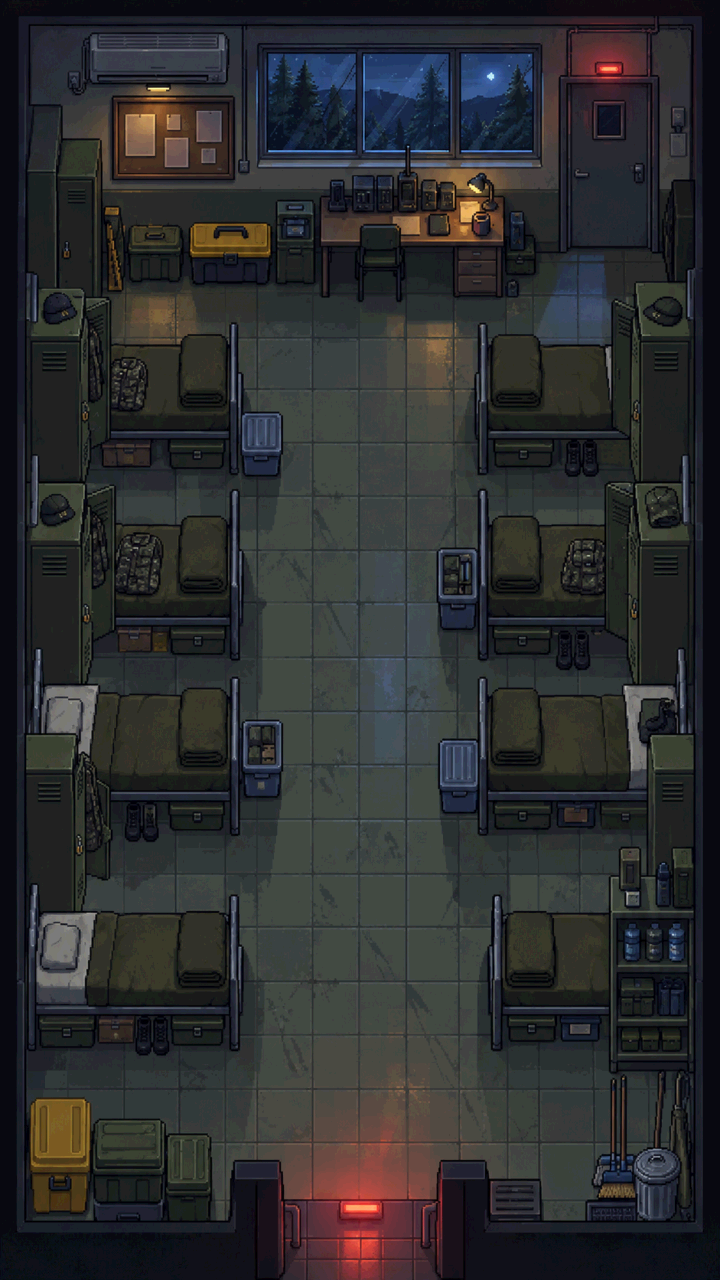
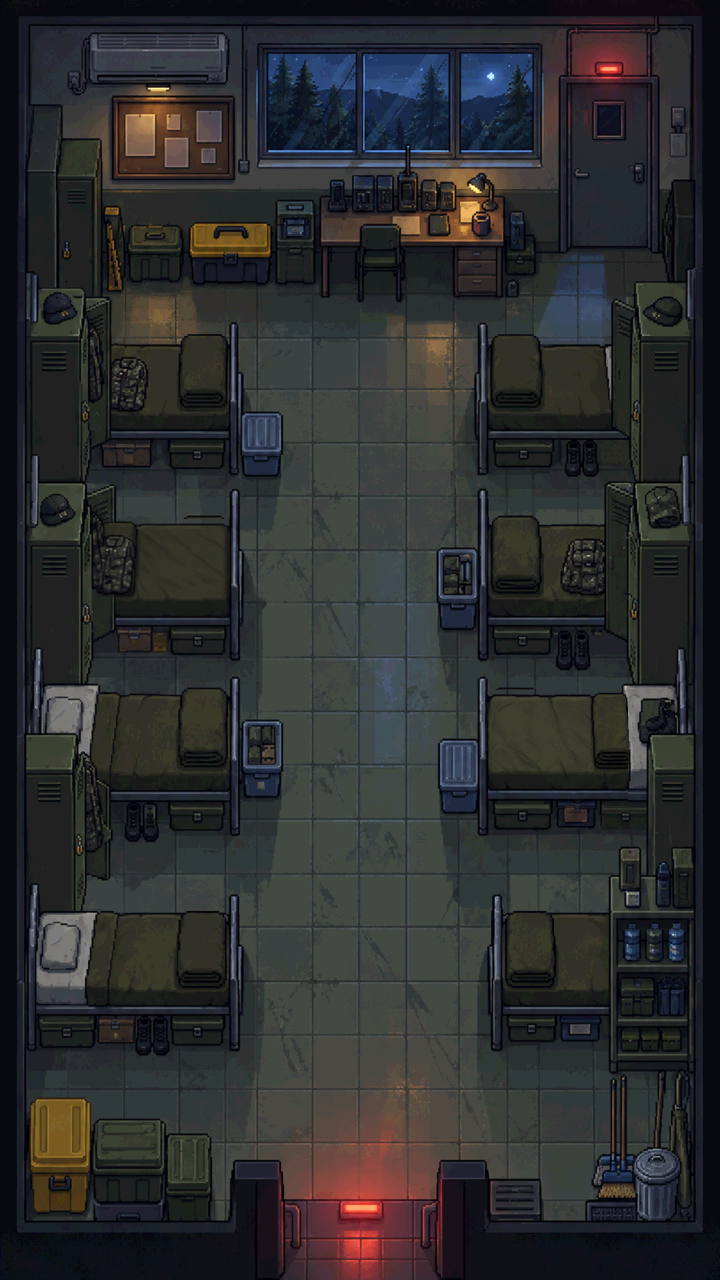
T-118: 침상 사이 이동과 아빠다리 동료 근접 대화 구현 완료

Changed region(s): [[0.1222, 0.4062, 0.3361, 0.4688], [0.6722, 0.5312, 0.7639, 0.625], [0.825, 0.5312, 0.8861, 0.625]]

diff --git a/src/ui/walk.ts b/src/ui/walk.ts
@@ -81,13 +81,13 @@ const L = {
     { id: 'door', x: 0.5, y: 0.94, r: 90, title: '출입구', desc: '위병소 방면 · 전투 투입', kind: 'deploy' },
     {
       id: 'lee',
-      x: 0.24,
-      y: 0.515,
+      x: 206 / W,
+      y: 590 / MAP_H,
       r: 90,
       title: '이상병',
       desc: '',
       kind: 'npc',
-      art: 'walk_lee_idle',
+      art: 'walk_lee_sit',
       lines: [
         '저격은 관통이다. 한 줄로 세워 놓고 쏴라.',
         '사거리 안이면 어느 방향이든 쏜다. 대각선도 된다.',
@@ -96,13 +96,13 @@ const L = {
     },
     {
       id: 'park',
-      x: 0.76,
-      y: 0.660,
+      x: 514 / W,
+      y: 756 / MAP_H,
       r: 90,
       title: '박취사',
       desc: '',
       kind: 'npc',
-      art: 'walk_park_idle',
+      art: 'walk_park_sit',
       lines: [
         '밥 먹고 해야지. 취사병이 옆에 있으면 다들 버틴다.',
         '제설병 뒤에 취사병을 세워라. 맞는 사람이 있어야 치료도 있지.',
@@ -225,7 +225,8 @@ export class WalkScene extends Scene {
     this.pos = moveStep(this.pos, dir, L.speed, Math.min(delta, 50), this.colliders, this.bounds, L.radius)
     const moving = Math.hypot(this.pos.x - before.x, this.pos.y - before.y) > 0.1
     this.player.setPosition(this.pos.x, this.pos.y).setDepth(this.pos.y)
-    const partner = this.talking ? this.zones.find((z) => z.id === this.talking) : null
+    const nearNpc = open ? null : nearestZone(this.pos, this.zones.filter(z => z.spot.kind === 'npc'))
+    const partner = this.talking ? this.zones.find(z => z.id === this.talking) : !moving ? nearNpc : null
     this.rookie.target = partner
       ? facingFor({ x: partner.x - this.pos.x, y: partner.y - this.pos.y }, this.rookie.facing)
       : facingFor(dir, this.rookie.target)
@@ -238,7 +239,7 @@ export class WalkScene extends Scene {
     }
     for (const [id, npc] of this.npcs) {
       const z = this.zones.find((zone) => zone.id === id)!
-      npc.target = this.talking === id
+      npc.target = !open && (this.talking === id || nearNpc?.id === id)
         ? facingFor({ x: this.pos.x - z.x, y: this.pos.y - z.y }, npc.facing)
         : npc.home
       this.turnActor(npc, time)
@@ -296,7 +297,8 @@ export class WalkScene extends Scene {
 
   private actor(artKey: string, fallback: string, label: string, home: number): Actor {
     const box = this.add.container(0, 0)
-    box.add(this.add.ellipse(0, 0, 52, 14, 0x000000, 0.30))
+    const seated = artKey.endsWith('_sit') && hasArt(artKey)
+    box.add(this.add.ellipse(0, seated ? -3 : 0, seated ? 40 : 52, seated ? 10 : 14, 0x000000, seated ? 0.22 : 0.30))
     const key = hasArt(artKey) ? artKey : fallback
     let sprite: GameObjects.Sprite | null = null
     if (hasArt(key)) {
@@ -319,7 +321,7 @@ export class WalkScene extends Scene {
   private makeNpc(z: Hot): void {
     const a = this.actor(z.spot.art ?? '', z.id === 'lee' ? 'ally_sniper_idle' : 'ally_cook_idle', z.spot.title.slice(0, 1), z.id === 'lee' ? 6 : 2)
     a.box.setPosition(z.x, z.y).setDepth(z.y).setName(z.id)
-    a.box.add(this.add.text(0, -103, z.spot.title, { fontFamily: FONT, fontSize: '20px', color: '#d9d2be', stroke: '#000000', strokeThickness: 4 }).setOrigin(0.5))
+    a.box.add(this.add.text(0, -78, z.spot.title, { fontFamily: FONT, fontSize: '20px', color: '#d9d2be', stroke: '#000000', strokeThickness: 4 }).setOrigin(0.5))
     this.npcs.set(z.id, a)
   }
 

diff --git a/src/assets.ts b/src/assets.ts
@@ -78,6 +78,8 @@ const LOBBY_ART_CONTRACTS: AssetContract[] = [
   { key: 'walk_rook_idle', w: 128, h: 128, frames: 8, color: '#4b5320', label: 'walk_rook_idle' },
   { key: 'walk_lee_idle', w: 128, h: 128, frames: 8, color: '#4b5320', label: 'walk_lee_idle' },
   { key: 'walk_park_idle', w: 128, h: 128, frames: 8, color: '#4b5320', label: 'walk_park_idle' },
+  { key: 'walk_lee_sit', w: 128, h: 128, frames: 8, color: '#4b5320', label: 'walk_lee_sit' },
+  { key: 'walk_park_sit', w: 128, h: 128, frames: 8, color: '#4b5320', label: 'walk_park_sit' },
 ]
 
 // 처리 도구의 getMaxFrames와 같은 상한. 단일 정적 그림은 기존 최소치를 유지한다.

diff --git a/tests/assets.test.ts b/tests/assets.test.ts
@@ -69,8 +69,8 @@ describe('에셋 계약 표 (docs/ART.md §4)', () => {
     }
   })
 
-  it('총 키 개수가 112개이고 모든 규격(w, h, frames)이 유효하다', () => {
-    expect(ASSET_CONTRACTS.length).toBe(112)
+  it('총 키 개수가 114개이고 모든 규격(w, h, frames)이 유효하다', () => {
+    expect(ASSET_CONTRACTS.length).toBe(114)
     for (const item of ASSET_CONTRACTS) {
       expect(item.w).toBeGreaterThan(0)
       expect(item.h).toBeGreaterThan(0)

diff --git a/docs/tickets/T-118-barracks-aisles.md b/docs/tickets/T-118-barracks-aisles.md
@@ -1,6 +1,6 @@
 # T-118 생활관 침상 사이 통로와 동료 자리 개선
 
-상태: 진행 중
+상태: 완료
 담당: Codex
 
 ## 목표
@@ -57,8 +57,8 @@
 - [x] 양쪽 침대 사이 통로로 진입·복귀 가능
 - [x] 통로 안 관물대 접근/도감 열기
 - [x] 두 동료가 중앙 길을 막지 않음
-- [ ] 앉은 자세 그림 제작 방식·시안 승인 후 연결
-- [ ] verify 결과·실제 입력 스크린샷·인계·PR
+- [x] 앉은 자세 그림 제작 방식·시안 승인 후 연결
+- [x] verify 결과·실제 입력 스크린샷·인계·PR
 
 디버그 URL: `?scene=walk&zones=1&safe=1`, `?scene=walk&safe=1`, `?scene=walk&art=0`.
 
@@ -73,7 +73,7 @@
 ## 질문
 
 - [x] 사용자: 내장 이미지 생성 도구 진행 승인. 별도 이미지 도구이며 API 키 불필요, Sol 한도 합산은 확인 불가라고 안내 후 승인 받음.
-- [ ] 사용자: 새 앉은 자세 시안 Figma 승인 후 게임 반영(기존 선승인 지시 유지).
+- [x] 사용자: 2026-10-29 “응 해당 방향으로 이어가자”로 흰 원 위치·대칭·소품 정리·아빠다리 시안 승인, 실제 게임 연결 진행.
 
 ## 진행 기록
 
@@ -92,29 +92,24 @@
 
 - [x] 사용자 흰 원 표시 위치로 두 캐릭터와 접촉 그림자를 함께 이동. 중앙 복도 x360을 기준으로 좌x206·우x514, 각154px로 좌우 대칭 확인. 높이는 각 침상 표시를 따라 footY590·756으로 조정. Figma68:16/17 및73:2/3 수정, T-118-marked-position.png 시각 검토. 게임 미반영·시안 승인 대기 유지.
 
+- [x] 2026-10-29 사용자 최종 시안 승인 후 게임 연결 완료. 아빠다리 시트/침상 배경/접근 회전·자동 기본대사·복귀 및 최종 좌우 대칭 위치 반영. 최종 verify364테스트·97에셋·빌드 통과, 실제6개 틈/도감/두NPC/조이스틱/전투왕복/그림누락 검증과 사진6장 저장. 가공 재실행 SHA256 동일 확인.
+
 ## 결과 보고
 
-- 최신 위치(흰 원 지시): 기준720×1280의 좌측 이상병 x206/footY590, 우측 박취사 x514/footY756. 복도축360에서154px씩 떨어지며 좌우 합720으로 대칭. 예정 게임 비율은 이상병(.286111,.4609375), 박취사(.713889,.590625). 이전 침대 중앙 좌표는 이 지시로 대체한다. 그림자도 같은 이동량 적용, 모포/군장 정리 배경 유지. 최신 검토 사진 docs/shots/T-118-marked-position.png, Figma보드 동일68-3.
-- 사용자 흰 표시 레이어72:2/72:3은 삭제하지 않고 visible=false로 보존해 인물이 가려지지 않도록 했다. 표시를 숨긴 후 최종 사진으로 교체·검토 완료.
-
-- 최신 침상 수정: 캐릭터와 모포/군장의 겹침을 사용자가 지적해 두 매트리스를 비운 합성 시안으로 변경. 내장 imagegen으로 배경 국소 편집 및 오른쪽 셋째 침상 단독 편집, raw는 barracks-bedding-v1.png/right-third-bedding-v2.png, 프롬프트 prompts-bedding.json에 저장. 전체 생성본이 잘못 바꾼 오른쪽 둘째 침상은 채택하지 않았다.
-- 배경 미리보기: 원래 배경 위에 왼쪽 둘째 매트리스(93,519,143,105)·오른쪽 셋째(485,690,143,117)만 교체. prepare-barracks-seats.mjs가 생성물을 축소/배치하고 두 영역 밖 변경0픽셀을 직접 검사한다. art/inbox/a118/barracks-bedding-preview.png(720×1280,441111바이트)로 저장. 게임 public/assets에는 아직 미반영.
-- Figma68:12 배경을 새 미리보기로 교체, 두 캐릭터 아래 접촉 그림자73:2/73:3 추가, 모포/군장 정리 설명으로 수정. 몸은 그대로 아빠다리·복도 방향이고 매트리스 위에 놓인다. 최종 배치 사진은 docs/shots/T-118-bedding-approval.png. 사용자 시안 승인 후 실제 게임 연결한다.
-
-- 최신 수정 시안: 사용자가 다리를 내린 기존3자세를 반려하고 사진의 아빠다리·침대 중앙·복도 방향·근접 시 몸 돌려 대화를 요청했다. 내장 imagegen으로8방향 재제작, 이상병 NW 방향 중복은1회 수정. 최신 원본은 art/inbox/a118/lee-crossleg-v3.png와 park-crossleg-v2.png이며 이전 버전은 보존한다. 사진은 자세만 참조하고 실사 인물의 외형/복장은 사용하지 않았다.
-- 최신 미리보기: prepare-barracks-seats.mjs는 위 원본을4열2행으로 분리·투명 번짐 정리·128px/발116/높이74로 정렬해 ignored inbox에만 출력한다. 각8프레임과 기본 대기(이상병E6,박취사W2) 직접 검토. Figma68:7/9 시트 및68:16/17 배치 이미지를 교체, 침상 중앙 좌표 계획은 이상병(.235,.456)·박취사(.765,.596). 앉은 면이 매트리스 중앙에 놓이도록 배치만 보정함. 실제 walk.ts의 NPC 자리는 승인 후 수정한다.
-- 최신 프롬프트: art/inbox/a118/prompts-crossleg.json. 도구는 내장 image_gen, 실제 API 키/CLI 미사용. 새 게임 에셋·계약·장부 미변경. 아래3자세/가장자리 내용은 이전 시안 이력이며 최신 채택안이 아니다.
-
-- 통로 수정 검증: npm run verify 23파일364테스트·95에셋·타입/빌드 통과(기존 번들 경고). 실제 키보드로 양쪽3곳 통로 횡단·관물대 도감 열기 확인, 이동 사진4장. 앉은 그림은 아직 게임에 반영하지 않아 실제 대화 연결은 미검증.
-- 이미지: 사용자 방식 승인 후 내장 image_gen으로 2원본 생성. art/inbox/a118/lee-sit.png·park-sit.png 및 prompts.md 즉시 저장·gitignore. 참조는 walk_lee_idle/walk_park_idle, 무릎을 굽혀 침상 가장자리에 앉고 몸은 고정한 채 고개 좌/정면/우3자세. 박취사는 세 자세 모두 국자를 같은 손에 듦. 별도 API 키/CLI는 쓰지 않음.
-- 미리보기: node scripts/prepare-barracks-seats.mjs 성공, ignored inbox 안에128캔버스/발끝116/높이74 미리보기만 생성. public/assets·계약·장부 미변경.
-- Figma: https://www.figma.com/design/6RrU20Hv8way6vlYjcTJU3/?node-id=68-3 . 페이지68:2·보드68:3, session c81c50c1-e337-4b1c-9ade-069b228c5798. 새 원본 시트68:7/9, 배치용 정면68:16/17 업로드 완료. 편집 가능 한글7개 Noto Sans KR·이미지5개, 전체 승인 보드 시각검토. 사진 docs/shots/T-118-approval-board.png.
-- 현재 상태: 통로·동료 자리 수정 완료, 앉은 그림은 Figma 시안 승인 대기. 승인 후 계약/가공본/장부와 앉은 상태에서의 고개 방향을 연결하고 최종 검증·PR.
-- 확인하지 못한 점: 실기기.
+- 반영 내용: 좌우 침상줄 전체 충돌을 개별 침대8개/관물대/소품으로 분리, 발 반경12로 침대 사이 진입 허용. 관물대 접근6곳. 두 동료의 별도 길막 제거, 최종 흰 표시 위치(x206/514, footY590/756)로 좌우 대칭 배치.
+- 그림/동작: 승인한 아빠다리8방향 시트2장과 모포/군장을 정리한 두 매트리스 배경, 접촉 그림자 연결. 이상병은 기본E6·박취사는W2로 복도를 본다. 다가오면 NPC가 순차 몸 회전하고 플레이어가 멈추면 서로 마주 본다. 기본 대사 자동 표시, 대화 버튼으로 다음 대사, 멀어지면 복도 방향 복귀. 새 의존성/전투 규칙/공유 함수 계약 변경 없음.
+- 파일: walk.ts, assets.ts, tests/assets.test.ts, prepare-barracks-seats.mjs, 가공본2시트+bg_barracks, index/LEDGER, 이 티켓/HANDOFF/검토 사진. 계약114개·실제 그림97개. 원본/반려본/프롬프트는 art/inbox/a118 미추적 보존.
+- 처리 검사: `node scripts/prepare-barracks-seats.mjs --publish` 성공. 모든 프레임128캔버스/발끝116/앉은높이74, 배경720×1280, 3파일 모두512KB 이하(441111/60496/59842바이트). 두 매트리스 밖 변경0픽셀. 재실행 결과3파일 SHA256 동일.
+- 최종 검증: `npm run verify` 23파일364테스트·97에셋·타입/빌드 통과. 기존500KB 번들 경고 유지. `git diff --check` 통과.
+- 실제 입력:390×844 Safe Area에서 양쪽3개 틈 횡단(x118↔590/y640·820·1024), 안쪽 도감 열기. 이상병 근접 시 SE7/신병NW3·박취사NW3/신병SE7 마주보기, 클릭 전 기본대사와 클릭 후 다음대사, 떠나면 각각E6/W2 복귀 확인. 조이스틱 위 이동 약72px/보행 재생/손 떼면 정지. 생활관→전투→일시정지→포기→생활관 왕복 후 앉은 시트 재표시, 캔버스1개·해당 검사 pageerror0. 320×568 art0 대체 이동/동료2명 표시도 pageerror0.
+- 최종 실제 화면: docs/shots/T-118-game-seated.png, T-118-game-lee-talk.png, T-118-game-park-talk.png, T-118-game-locker.png, T-118-game-return.png, T-118-game-fallback.png. 앞선 수정 이력의 Figma/통로 사진은 T-118*.png로 함께 보존.
+- 사용자 확인: npm run dev 후 ?scene=walk&safe=1. 방향키/WASD 또는 빈바닥 드래그로 침상 사이 진입, 두 동료 가까이 가서 멈추기/대화 버튼. ?zones=1은 충돌/구역 표시, ?art=0은 그림 누락 대체 확인.
+- 한계: 안드로이드 실기기/노치 실측, 사용자의 회전 속도 체감은 미확인. 8자세의 순차 전환이며 프레임 사이를 새로 그리는 보간은 하지 않는다.
+- 다음: 사용자 PR 병합·일반 플레이 체감 확인. 출시 준비는 기존 보류 유지.
 
 ## 인계 메모
 
-- 생성 도구 선택과 시안 승인 질문은 별도 단계다. 도구 선택 승인 전 생성하지 않고, 시안 승인 전 게임에 새 그림을 반영하지 않는다. 이동·가구 수정은 사용자 요청으로 이미 승인됐다.
-- 생성 방식은 내장 도구로 승인받아 제작 완료했다. 현재 남은 질문은 Figma 시안 승인뿐이다. raw2장·미리보기4장·프롬프트는 art/inbox/a118에 보존, 공개 커밋 금지. 초기 검증은 서 있는 기존 그림을 옆으로 옮긴 상태이며 앉은 그림 연결 완료로 보고하지 않는다.
-- 이어하기 우선: 현재 유효한 시안은 아빠다리8방향이다. 기존 lee-sit.png/park-sit.png(다리 내림3자세)는 반려됐으므로 연결하지 않는다. 최신 Figma보드 URL은 동일68-3, 검토 사진은 docs/shots/T-118-crossleg-approval.png. 게임 연결/근접 자동 몸 회전은 아직 구현하지 않았다. 새 사용자 승인 후 이어간다.
-- 최신 배경도 함께 읽는다: 소품과 인물 겹침을 해결한 barracks-bedding-preview.png + 두 아빠다리 시트가 한 세트다. Figma68:12 배치가 최신이며, 기존 공개 bg_barracks는 아직 교체하지 않았다. 그림 승인 질문은 이 합성 시안을 기준으로 한다.
+- 최종 시안은 아빠다리8방향 + 두 매트리스 소품정리 + 흰 표시 좌우 대칭 위치다. 기존 다리내림3자세는 반려본으로 보존하며 게임에서 사용하지 않는다.
+- 승인 원본 lee-crossleg-v3.png/park-crossleg-v2.png, 배경 원본 barracks-bedding-v1.png/right-third-bedding-v2.png, 프롬프트3종은 art/inbox/a118에 보존. 새 원본 생성 없이 처리 스크립트 --publish로 가공/장부 재생성 가능. 원본 커밋 금지.
+- Figma68:3/68:12는 승인 증거, session c81c50c1-e337-4b1c-9ade-069b228c5798. 사용자 흰 원72:2/72:3은 삭제하지 않고 숨김 보존.
+- 실제 연결·검증 완료. 다음은 사용자 PR 병합이며 추가 변경은 새 티켓/브랜치로 시작한다.

diff --git a/docs/HANDOFF.md b/docs/HANDOFF.md
@@ -1,7 +1,7 @@
 # 인계 문서 (Claude Code → Codex 등 다른 에이전트)
 
 > 이 문서는 **작업자가 바뀌어도 이어갈 수 있게** 지금 상태·다음 할 일·함정을 적는다. 작업 단계를 끝낼 때마다 갱신한다.
-> 마지막 갱신: 2026-10-28(Codex, T-118 침상 사이 통로 수정·앉은 그림 승인 대기). 갱신 로그는 맨 아래.
+> 마지막 갱신: 2026-10-29(Codex, T-118 게임 연결·검증 완료). 갱신 로그는 맨 아래.
 > **Codex에게 시키는 프롬프트는 `docs/CODEX-START.md`에 있다.**
 
 ## 0. 먼저 읽을 것 (순서대로)
@@ -42,7 +42,7 @@
 | 4 | A-103 생활관 배경 → 걷는 화면 좌표 맞춤 | A-106 승인 후 T-117에서 배경 처리·가구/동료 충돌·구역 접근점과 표지 연결 완료 |
 | 4' | **A-106 브리핑·생활관·생활 모션 시안 승인** | `docs/tickets/A-106-visual-review.md`. [Figma 9원본 시안](https://www.figma.com/design/6RrU20Hv8way6vlYjcTJU3/?node-id=54-3) 사용자 승인 완료. T-117로 게임 연결·승인 문서/사진 통합 보존 |
 | 4'' | **T-117 승인 시안 게임 반영** | `docs/tickets/T-117-approved-visuals.md`. 브리핑4컷·생활관·4방향 보행/8방향 회전/동료 대화 연결。PR #46 실제 병합 확인(2026-10-28T13:25:01Z) |
-| 4''' | **T-118 침상 사이 통로·동료 앉은 자리** | `docs/tickets/T-118-barracks-aisles.md`. 통로 개방/도감 열기 확인. 다리 내림 시안 반려 후 내장 imagegen으로 아빠다리8방향 재제작, 침대 중앙·복도 방향 배치로 Figma68:3 수정 완료. 시안 승인 후 실제 좌표/에셋/근접 몸 회전 연결 대기. 브랜치 kidariseok/t118-barracks-aisles |
+| 4''' | **T-118 침상 사이 통로·동료 앉은 자리** | `docs/tickets/T-118-barracks-aisles.md`. 최종 시안 승인 후 아빠다리8방향·소품정리 배경·흰 표시 대칭 위치·근접 회전/대화/복귀 게임 연결 완료. 통로6곳·도감·조이스틱·전투왕복·art0 확인, verify364테스트·97에셋·빌드 통과. 브랜치 kidariseok/t118-barracks-aisles, PR 사용자 병합 대기 |
 | 5 | **T-114 전투 소리 연결** | `docs/tickets/T-114-battle-audio.md` 구현·검증 완료(358테스트·83에셋·빌드), [PR #42](https://github.com/kidariseok/shoottrial/pull/42) 실제 병합 확인(2026-10-26T14:55:00Z). 브랜치 `kidariseok/t114-battle-audio`. 일일 첫 접속 보너스는 별도 대기 |
 | 5' | **T-115 통합 점검·플레이테스트 준비** | `docs/tickets/T-115-playtest-prep.md` 통합 점검·안내 완료, `kidariseok/t115-playtest-prep` 기준6488f08c01e6. verify358테스트/83에셋/빌드, 자동10웨이브 흐름 확인. 사람 평가는 docs/PLAYTEST.md 기록표로 진행; PR #43 실제 병합 확인(2026-10-27T11:57:46Z) |
 | 6 | **T-108 출시 준비**(AAB 서명, 개인정보처리방침, 스토어 등록물, PX 광고 해금 연결) | **사용자가 구글 콘솔을 뒤로 미룸.** 사용자가 다시 꺼낼 때 시작(참고 `docs/research/play-launch.md`) |
@@ -95,6 +95,9 @@
 - **T-114 완료 계약**: data.BATTLE_AUDIO에 기존 음원 매핑, 전투 사건당1회 호출. 소생은 완료·박격포는 착탄 때, 열 전체 지원은 시각 이펙트 수와 무관하게 boom1. 가스/독/화상 틱은 무음. 일반 게임 일시정지/특기 선택은 BGM 유지, 앱 hidden/ad는 즉시 정지하고 둘 다 해제돼야 현재 음악만 재개. 결과/포기는 기존 페이드 후 BGM정지, 생활관 음악을 늦은 shutdown이 끄지 않도록 처리했다.
 
 ## 9. 갱신 로그
+
+- 2026-10-29 (T-118 완료): 사용자 최종 방향 승인, --publish로 아빠다리8방향2시트·정리 배경·114계약/97실제에셋·장부 연결. 승인한 위치x206/514(복도축360에서154씩),footY590/756·접촉그림자·앉은이름표 반영. 근접 시 NPC 순차회전/정지시 신병과마주보기·기본대사 표시·버튼다음대사·이탈시E6/W2복귀. 390×844 실제 키보드로 양쪽3틈 전부횡단/안쪽도감/두NPC대화·복귀, 조이스틱 이동/정지, 전투투입→포기→생활관→앉은그림 재표시·캔버스1개 확인. 320×568 art0 이동·동료대체 확인, 해당검사오류0. verify23파일364테스트·97에셋·타입/빌드 통과(기존 번들 경고), 새실제화면6장 T-118-game*.png. 처리재실행3파일SHA256동일, 모두512KB이하·발116·앉은높이74·두매트리스밖변경0. 실기기/사용자회전속도체감은 미확인. 다음은 사용자 PR 병합/일반플레이 피드백.
+
 
 - 2026-10-28 (T-118 흰 표시 위치): 사용자가 침상에서 복도 쪽 흰 원 자리로 이동·좌우 대칭 요청. Figma의 인물과 접촉 그림자를 함께 이동: 이상병 x206/footY590, 박취사 x514/footY756(720×1280 기준), 복도축360에서 좌우154px씩 동일. 기존 침대 중앙 좌표를 대체하며 높이는 각 침상의 표시를 따름. 모포/짐 정리와 아빠다리/복도 방향 유지. 사진 T-118-marked-position.png 검토, 게임 연결은 기존 시안 승인 후 단계로 유지.
 
